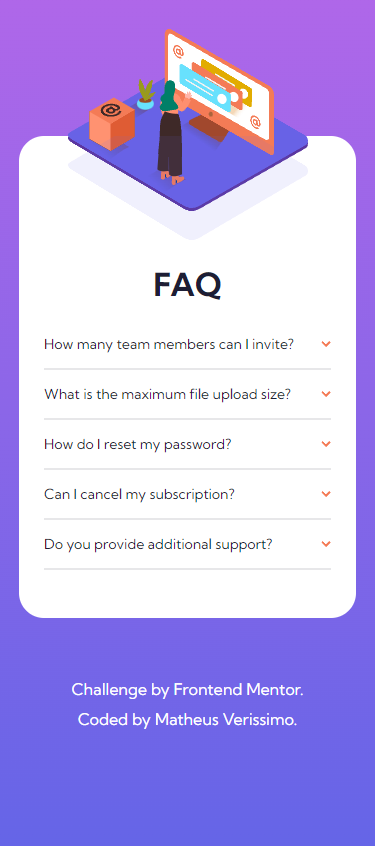
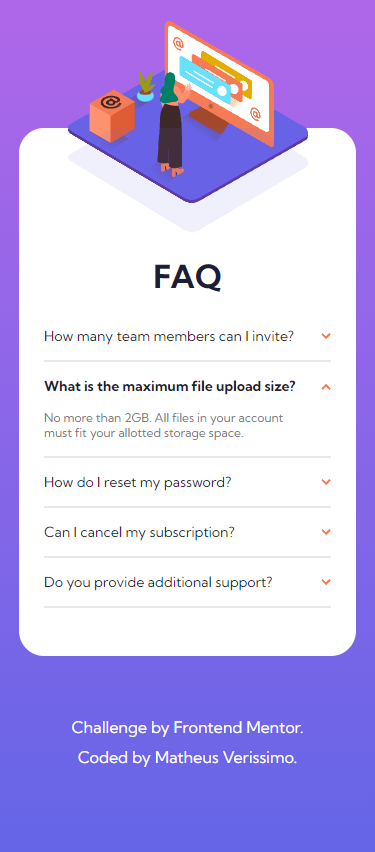
update-mobile-responsivity

diff --git a/index.html b/index.html
@@ -1,5 +1,5 @@
 <!DOCTYPE html>
-<html lang="pt-br">
+<html lang="en">
     <head>
         <meta charset="UTF-8" />
         <meta name="viewport" content="width=device-width, initial-scale=1.0" />
@@ -13,11 +13,15 @@
     <body>
         <div id="whiteBox">
             <div id="imgs">
-                <img id="womanMobile" src="images/illustration-woman-online-mobile.svg" alt="" />
-                <img id="bgMobile" src="images/bg-pattern-mobile.svg" alt="" />
-                <img id="box" src="images/illustration-box-desktop.svg" alt="" />
-                <img id="womanDesktop" src="images/illustration-woman-online-desktop.svg" alt="" />
-                <img id="bg" src="images/bg-pattern-desktop.svg" alt="" />
+                <img id="womanMobile" src="images/illustration-woman-online-mobile.svg" alt="illustration-woman" />
+                <img id="bgMobile" src="images/bg-pattern-mobile.svg" alt="bg-pattern" />
+                <img id="box" src="images/illustration-box-desktop.svg" alt="illustration-box" />
+                <img
+                    id="womanDesktop"
+                    src="images/illustration-woman-online-desktop.svg"
+                    alt="illustration-woman-desktop"
+                />
+                <img id="bg" src="images/bg-pattern-desktop.svg" alt="bg-desktop" />
             </div>
             <div id="faq">
                 <h1>FAQ</h1>
@@ -32,7 +36,7 @@
                     </p>
                 </div>
 
-                <hr width="95%" />
+                <hr />
 
                 <button class="accordion">
                     What is the maximum file upload size?
@@ -42,7 +46,7 @@
                     <p>No more than 2GB. All files in your account must fit your allotted storage space.</p>
                 </div>
 
-                <hr width="95%" />
+                <hr />
 
                 <button class="accordion">
                     How do I reset my password?
@@ -55,7 +59,7 @@
                     </p>
                 </div>
 
-                <hr width="95%" />
+                <hr />
 
                 <button class="accordion">
                     Can I cancel my subscription?
@@ -65,7 +69,7 @@
                     <p>Yes! Send us a message and we’ll process your request no questions asked.</p>
                 </div>
 
-                <hr width="95%" />
+                <hr />
 
                 <button class="accordion">
                     Do you provide additional support?
@@ -75,7 +79,7 @@
                     <p>Chat and email support is available 24/7. Phone lines are open during normal business hours.</p>
                 </div>
 
-                <hr width="95%" />
+                <hr />
             </div>
         </div>
 

diff --git a/assets/css/style.css b/assets/css/style.css
@@ -27,7 +27,8 @@ body {
     background-color: white;
     border-radius: 25px;
     width: 60rem;
-    height: 32rem;
+    min-height: 32rem;
+    max-height: 32rem;
     overflow: hidden;
     z-index: 0;
 }
@@ -96,6 +97,7 @@ h1 {
 }
 
 hr {
+    width: 100%;
     border-width: 0;
     height: 2px;
     background-color: hsl(240, 5%, 91%);
@@ -171,14 +173,24 @@ p {
 } */
 
 @media (max-width: 375px) {
+    body {
+        justify-content: center;
+        width: 100vw;
+        height: 100%;
+        overflow-x: hidden;
+        background-repeat: no-repeat;
+    }
+
     #whiteBox {
         flex-direction: column;
         justify-content: center;
         align-items: center;
         max-width: 21.1rem;
-        height: fit-content;
+        height: auto;
+        max-height: 100%;
         margin: 1.5rem;
         overflow: initial;
+        margin-top: 8rem;
     }
 
     #bg,
@@ -203,7 +215,6 @@ p {
         flex-direction: column;
         align-items: flex-start;
         width: 85%;
-        /* width: 23rem; */
         height: fit-content;
         margin: 0;
         margin-bottom: 3rem;
@@ -217,11 +228,11 @@ p {
         margin: 0;
     }
 
-    hr {
-        width: 100%;
-    }
-
     .accordion {
         font-size: 14px;
+    }
+
+    .attribution {
+        margin-bottom: 5rem;
     }
 }

diff --git a/assets/js/script.js b/assets/js/script.js
@@ -17,10 +17,6 @@ title.forEach((item) => {
     });
 });
 
-panel.forEach((item) => {
-    item.addEventListener;
-});
-
 // Voltar o estado do Title, Arrow e Text para o padrão.
 function resetAll() {
     title.forEach((item) => {
